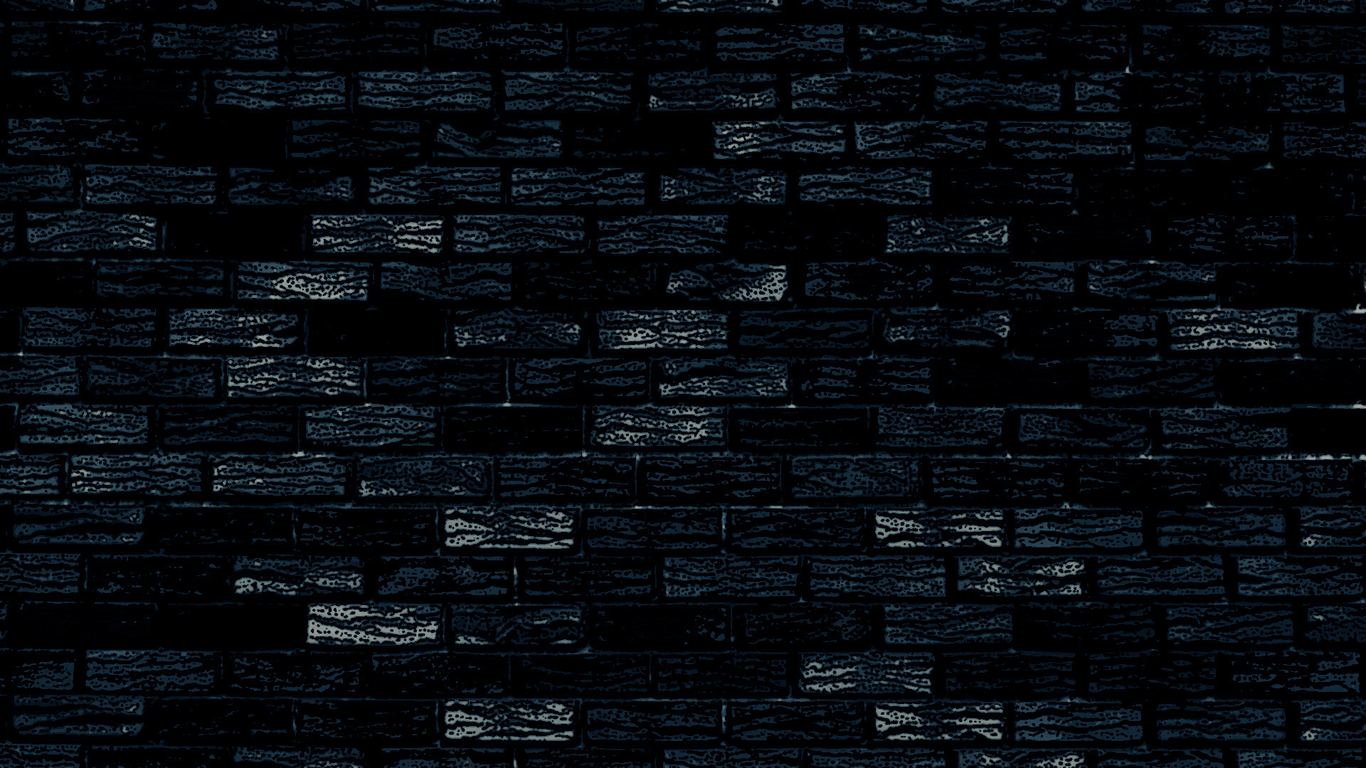
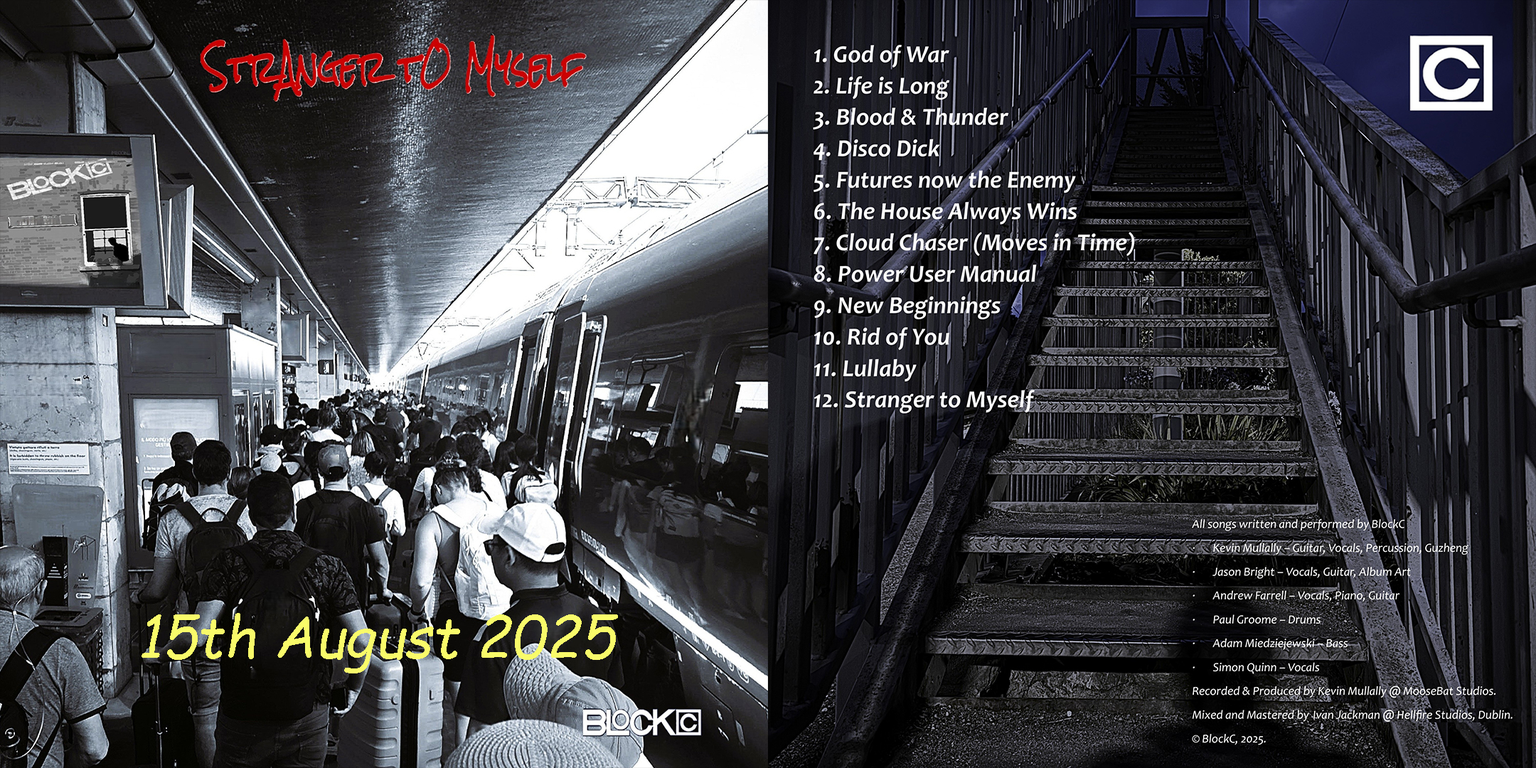
Multiple layout changes

diff --git a/_pages/shop.html b/_pages/shop.html
@@ -1,10 +1,10 @@
 ---
-layout: page
+layout: default
 title: Shop
 permalink: /shop/
 ---
 
 <section class="shop-box">
 <script type="text/javascript" src="https://www.redbubble.com/assets/external_portfolio.js"></script>
-<script id="rb-xzfcxvzx" type="text/javascript">new RBExternalPortfolio('www.redbubble.com', 'blockc', 3, 1).renderIframe();</script>
+<script id="rb-xzfcxvzx" type="text/javascript">new RBExternalPortfolio('www.redbubble.com', 'blockc', 2, 3).renderIframe();</script>
 </section>

diff --git a/_includes/footer.html b/_includes/footer.html
@@ -3,6 +3,7 @@
   <div class="container">
     <div class="row">
       <div class="col col-4 col-d-6 col-t-12">
+        {% if site.wid-info %}
         <div class="widget widget-info">
           <div class="footer-logo">
             {% if site.logo %}
@@ -13,6 +14,7 @@
           </div>
           <p class="footer-desc">{{site.hero.description}}</p>
         </div>
+        {% endif %}
       </div>
       <div class="col col-4 col-d-6 col-t-12">
         <div class="widget widget-nav">

diff --git a/_sass/3-modules/_header.scss b/_sass/3-modules/_header.scss
@@ -103,7 +103,7 @@
   
       .nav__link {
         position: relative;
-        font-size: 16px;
+        font-size: 20px;
         font-weight: 400;
         text-decoration: none;
         color: $white;
@@ -126,7 +126,7 @@
           transition: all .25s;
           opacity: 0;
           visibility: hidden;
-          background-color: $brand-color;
+          background-color: yellow;
         }
       }
     }

diff --git a/_sass/2-base/_base.scss b/_sass/2-base/_base.scss
@@ -234,11 +234,24 @@ video {
   z-index: -1;
 }
 
+.myBckg {
+  width: 100%; 
+  height: 100%;
+  padding: 0%;
+}
+
+.myDivBckg {
+  background-color: $blue-dark; 
+  text-align: center;
+  font-style: italic;
+  z-index: -1;
+}
+
 /* Discography positioning */
 .discCol {
   float: left;
   width: 50%;
-  padding: 5px;
+  padding: 0px;
 }
 
 /* Clear floats after image containers */

diff --git a/_sass/4-layouts/_page.scss b/_sass/4-layouts/_page.scss
@@ -46,6 +46,8 @@
 }
 
 .page__content {
+  padding: 3%;
+  border-radius: 20px;
   background-color: rgba(20, 20, 20, 0.9);
   color: rgba($text-color, .6);
   a {
@@ -57,10 +59,12 @@
 }
 
 .shop-box {
-  width: 266px;
-  margin: 0 auto; 
+  width: 497px;
+  margin: auto;
 }
 
 .shop-box iframe {
-  width: 100%;  
+  height: 746px;
+  margin: 0 auto;
+  display: block;
 }

diff --git a/_sass/3-modules/_footer.scss b/_sass/3-modules/_footer.scss
@@ -1,6 +1,6 @@
 /* Footer Widgets */
 .footer-widgets {
-  padding: 80px 0 30px;
+  padding: 40px 0 30px;
   margin-top: 20px;
   background-color: rgba(20, 20, 20, 0.9);
   .row .col {
@@ -125,7 +125,7 @@
 /* Footer */
 .footer {
   position: relative;
-  padding: 50px 0;
+  padding: 20px 0;
   background-color: rgba(20, 20, 20, 0.9);
 
   .footer__inner {

diff --git a/_includes/main.scss b/_includes/main.scss
@@ -105,7 +105,7 @@
 @import '4-layouts/contact-page';
 
 .is-in {
-  background-image: url('{{ site.baseurl }}/images/bckg.jpg');
+  background-image: url('{{ site.baseurl }}/images/texture.jpg');
   background-repeat: no-repeat;
   background-attachment: fixed;  
   background-size: cover; 

diff --git a/_sass/4-layouts/_contact-page.scss b/_sass/4-layouts/_contact-page.scss
@@ -1,6 +1,6 @@
 /* Contact Page */
 .form__group {
-  margin-bottom: 20px;
+  margin-bottom: 5px;
 }
 
 .form__label {
@@ -9,6 +9,7 @@
   font-family: $heading-font-family;
   font-size: 14px;
   font-weight: 600;
+  color: yellow;
 }
 
 .form__input {

diff --git a/_layouts/default.html b/_layouts/default.html
@@ -15,6 +15,7 @@
     {{ content }}
   </main> 
   <!-- end content -->
+  <div class="footer-push"></div>
   
   <div class="top" title="Top"><i class="ion ion-ios-arrow-up"></i></div>
   {% include footer.html %}

diff --git a/_sass/3-modules/_hero.scss b/_sass/3-modules/_hero.scss
@@ -41,7 +41,7 @@
   img {
     position: absolute;
     top: 0px;
-    width: 100%;
+    width: 300%;
     height: 100%;
     object-fit: cover;
   }

diff --git a/index.html b/index.html
@@ -2,5 +2,5 @@
 layout: default
 ---
 
-{% include hero.html %}
 
+<div class="myDivBckg"><img class="myBckg" src="/images/bckg.jpg"/></div>

diff --git a/_pages/about.md b/_pages/about.md
@@ -11,9 +11,25 @@ tags: []
 <div class="myDiv"><img class="myImg" src="/images/band.jpg"/></div>
 
 <div style="padding : 2%;">
-<p>Based in Dublin, Ireland, BlockC is an alternative rock band made up of 6 talented musicians who formed together while working together. Bonded by a blend of ages, life experiences and love of music – this gang have set out to achieve nothing more than creating satisfying, thought provoking, technically pleasing, kick-ass music…</p>
-<p>Formed back in 2019 – BlockC started as a group of work friends deciding to meet up for a few jamming sessions. What began as a bit of fun and stress relief, messing with some well known cover songs and band favourites, it quickly became clear that there was so much more potential to achieve some bigger and better things. The name BlockC has a personal meaning to the band as it is the area where the guys first met and worked together. Not only that but it was the first place they all bonded over a love of music. This band’s story started after a few sessions sparked inspiration and creativity to develop their own sound.</p>
-<p>Heather Road is the bands trail blazing first release to the public. A combination of months of work has produced a unique, satisfying and self-proclaimed fun EP. A journey that started in studio at Heather Road, ended in week long recording session in Westport where the whole EP was recorded.</p> 
-<p>The EP is a combination of different styles and ideas which came about as the band looked to understand and create their own unique sound. Each song brings in the personality of each of the band members. From soulful rock numbers to highly technical guitar ballads – this EP is guaranteed to have something to have all listeners drawn in and playing for years to come.</p>
-<p>The band has already started on their first studio album and while collaborating during these difficult global situations has its challenges, the band is really looking forward to bringing you new music which they hope will rock your world!</p>
+  <p>
+    Based in Dublin, Ireland, BlockC is an alternative rock band made up of 6 talented musicians. Bonded by a blend of ages, life experiences and love of music – we have set out to achieve thought provoking, kick-ass music… 
+  </p>
+  <p>
+    "Heather Road" is the band’s first release. A journey that started at Heather Road Studios, ended in a hands-on recording session. The EP is a combination of styles and ideas as the band looked to understand their own unique sound. 
+  </p>
+  <p>
+    August 2025. BlockC Returns with "Stranger to Myself"
+  </p>
+  <p>
+    A powerful new album that captures the emotional intensity of a world in flux. Written and recorded by the band over 4 years, the album transforms uncertainty into a bold collection of songs that is anything but restrained.
+  </p>
+  <p>
+    Rooted in BlockC’s signature rock sound, the album expands far beyond expectations. Each band member brings their own musical ideas forward to create a sonically rich and unpredictable listening experience. The result is a dynamic, deeply textured Prog-Rock Album that remains uniquely BlockC.
+  </p>
+  <p>
+    Lyrically, the album explores themes of isolation, resilience, and personal rediscovery. While not a concept album in the traditional sense, a clear emotional arc emerges—charting a journey from confinement to catharsis.
+  </p>
+  <p>
+    From Rock ballads to explosive guitar-driven anthems, BlockC’s latest work is both a reflection of the times and a reimagining of what music can become when artistic boundaries dissolve.
+  </p>
 </div>
